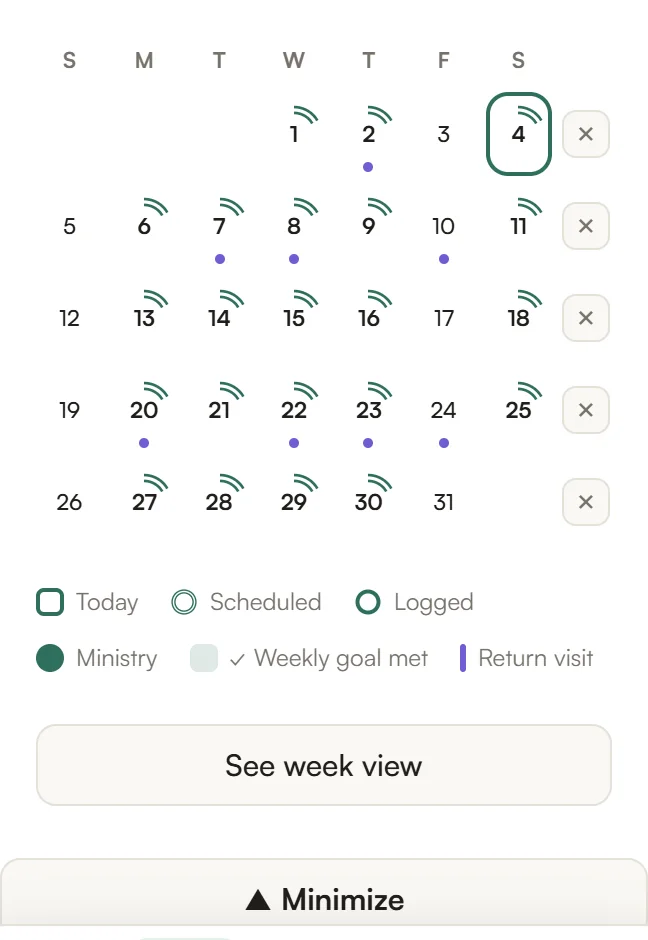
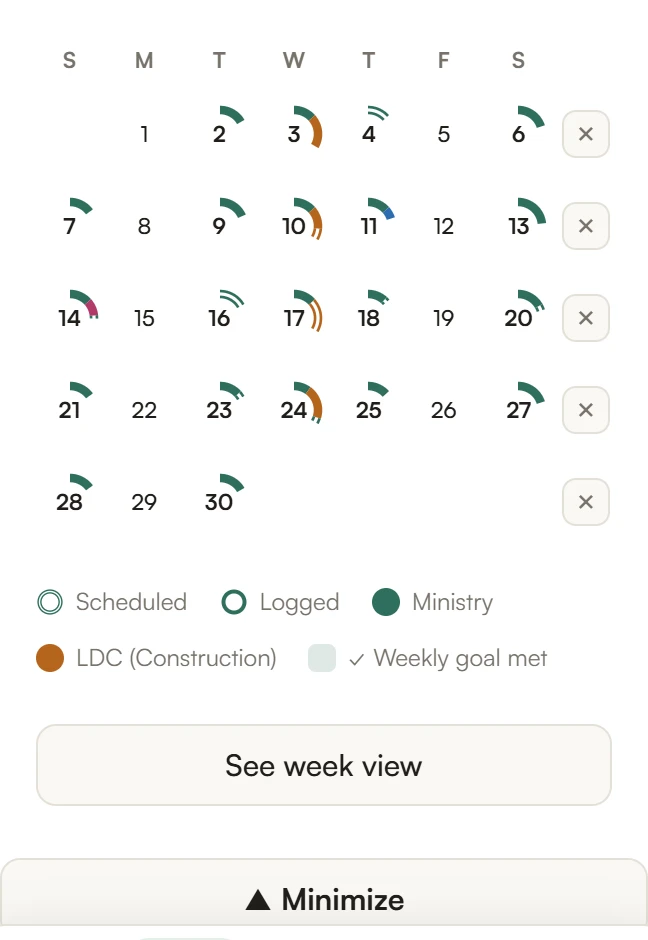
Tutorial: realistic schedule shots; More tab organized into sections
- Replace the flat, identical-looking schedule tutorial screenshots with
  realistic usage: the week shows logged vs scheduled time across ministry,
  LDC and HLC with return-visit markers; the month shows filled (logged) vs
  hollow (scheduled) rings, multi-category days, and goal-met weeks.
- Group the More tab's cards under lightweight section labels — Support &
  share / Personalize / Your data / Help & about — for cleaner organization.
  Nothing removed; Add to Home Screen moves into Personalize.

diff --git a/src/components/Misc.tsx b/src/components/Misc.tsx
@@ -196,7 +196,10 @@ export default function Misc({ onReplayTutorial, onImportEncoded }: { onReplayTu
     <div className="view">
       <h2 className="applet-title">More</h2>
 
-      {/* ── 1. Tips ─────────────────────────────────────────── */}
+      {/* ═══ Support & share ═══════════════════════════════════ */}
+      <div className="misc-section-title" style={{ marginTop: 6 }}>Support &amp; share</div>
+
+      {/* Tips */}
       <div className="card misc-donate">
         <div className="misc-donate-header">
           <span className="misc-donate-emoji">☕</span>
@@ -243,9 +246,6 @@ export default function Misc({ onReplayTutorial, onImportEncoded }: { onReplayTu
         </p>
       </div>
 
-      {/* ── Add to Home Screen ──────────────────────────────── */}
-      <InstallCard />
-
       {/* ── Share the app ───────────────────────────────────── */}
       <div className="card">
         <strong>📣 Share Meleo</strong>
@@ -279,7 +279,13 @@ export default function Misc({ onReplayTutorial, onImportEncoded }: { onReplayTu
         </a>
       </div>
 
-      {/* ── 2. Theme ────────────────────────────────────────── */}
+      {/* ═══ Personalize ═══════════════════════════════════════ */}
+      <div className="misc-section-title">Personalize</div>
+
+      {/* Add to Home Screen */}
+      <InstallCard />
+
+      {/* Theme */}
       <div className="card">
         <strong>Theme</strong>
         <p className="muted" style={{ margin: '3px 0 10px', fontSize: 13, lineHeight: 1.5 }}>
@@ -427,7 +433,10 @@ export default function Misc({ onReplayTutorial, onImportEncoded }: { onReplayTu
         )}
       </div>
 
-      {/* ── Backup & Restore ────────────────────────────────── */}
+      {/* ═══ Your data ═════════════════════════════════════════ */}
+      <div className="misc-section-title">Your data</div>
+
+      {/* Backup & Restore */}
       <div className="card">
         <strong>💾 Backup &amp; Restore</strong>
         <p className="muted" style={{ margin: '3px 0 10px', fontSize: 13, lineHeight: 1.5 }}>
@@ -479,7 +488,10 @@ export default function Misc({ onReplayTutorial, onImportEncoded }: { onReplayTu
         />
       </div>
 
-      {/* ── 4. Guided tour ──────────────────────────────────── */}
+      {/* ═══ Help & about ══════════════════════════════════════ */}
+      <div className="misc-section-title">Help &amp; about</div>
+
+      {/* Guided tour */}
       <div className="card">
         <strong>Guided Tour</strong>
         <p className="muted" style={{ margin: '3px 0 10px', fontSize: 13, lineHeight: 1.5 }}>

diff --git a/src/App.css b/src/App.css
@@ -519,6 +519,16 @@
   text-shadow: var(--title-shadow);
 }
 
+/* Small uppercase group label used to organize the More tab's cards into sections. */
+.misc-section-title {
+  font-size: 11.5px;
+  font-weight: 700;
+  letter-spacing: 0.08em;
+  text-transform: uppercase;
+  color: var(--muted);
+  margin: 20px 4px 2px;
+}
+
 .view > h2 {
   font-size: 27px;
   font-weight: 700;